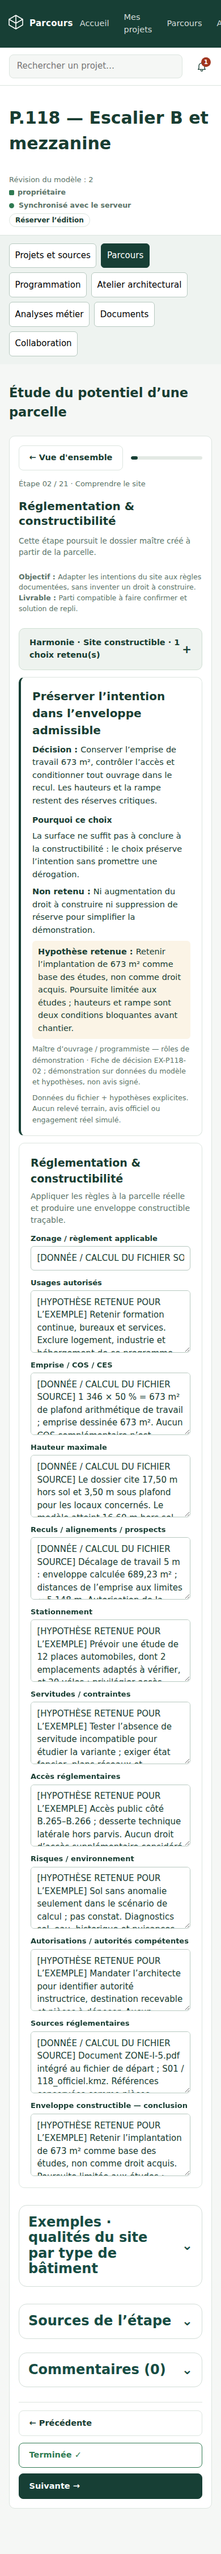
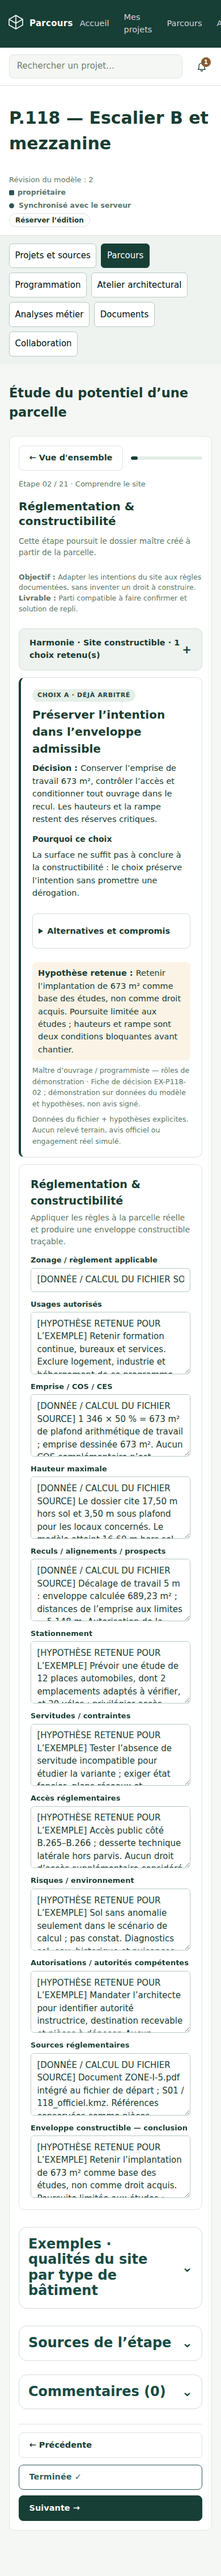
Exemple résolu : récit du choix avec les libellés du panneau ex81 (« CHOIX X · DÉJÀ ARBITRÉ », pli « Alternatives et compromis »)
Claude-Session: https://claude.ai/code/session_0157kHiYbK714BYhfbxMJK9G

diff --git a/apps/web/src/modules/parcours/ParcoursModule.tsx b/apps/web/src/modules/parcours/ParcoursModule.tsx
@@ -70,6 +70,7 @@ function StepStory({ step }: { step: ParcoursStep }) {
   if (!content.decision && !content.headline && !content.result) return null;
   return (
     <section className="ex81 ex81-story" aria-labelledby={`story-${step.number}`}>
+      {content.choice && <span className="ex81-tag">CHOIX {content.choice} · DÉJÀ ARBITRÉ</span>}
       {content.headline && <h2 id={`story-${step.number}`}>{content.headline}</h2>}
       <div className="step-detail-body">
         {content.decision && (
@@ -85,10 +86,10 @@ function StepStory({ step }: { step: ParcoursStep }) {
           </>
         )}
         {content.alternatives && (
-          <p>
-            <strong>Non retenu : </strong>
-            {content.alternatives}
-          </p>
+          <details className="ex81-fold">
+            <summary>Alternatives et compromis</summary>
+            <p>{content.alternatives}</p>
+          </details>
         )}
         {content.result?.donnee && (
           <p className="step-card-donnee">

diff --git a/apps/web/src/style.css b/apps/web/src/style.css
@@ -2247,6 +2247,17 @@ button.h7-chip.h7-goto:hover {
 /* ---------------------------------------------------------------------- */
 /* Exemple résolu — présentation protégée (prototype : ex81-*)             */
 /* ---------------------------------------------------------------------- */
+.ex81-tag {
+  display: inline-block;
+  font-size: 11px;
+  font-weight: 700;
+  letter-spacing: 0.06em;
+  padding: 3px 9px;
+  border-radius: 999px;
+  background: #e4efe7;
+  color: #1f4d3b;
+  margin-bottom: 8px;
+}
 .ex81-fold {
   margin: 16px 0;
   padding: 15px;

diff --git a/docs/migration/matrix.md b/docs/migration/matrix.md
@@ -34,7 +34,7 @@ commencé.
 | « Rapport de cette étape » (`Harmonie_Etape_NN_V7.html`) et « Exporter la synthèse des choix Harmonie » (`Harmonie_Choix_Parcours_V7.html`, outils du projet de la vue d'ensemble) : document HTML autonome et imprimable (feuille `h7-css` du prototype extraite telle quelle), cartes des partis et des choix retenus avec schéma de site, intentions reçues, choix à transmettre, péremption, cadre et références | Extraire (serveur) | `packages/domain-model/src/harmonie-report.ts` ; `apps/api/src/data/harmonie-report.css` (extraction) ; `GET …/steps/:n/harmonie/rapport`, `GET …/steps/harmonie/rapport` (pièce jointe, `nosniff`) ; liens de téléchargement dans le panneau et « Outils du projet » | ✅ (destinations en texte plutôt qu'en boutons masqués) | `dependencies.test.ts` « harmonieReportHtml » ; `app.test.ts` « …serves the step report and the project synthesis… » ; e2e (nom de fichier et contenu des deux rapports) |
 | « Choix & transmission » : intentions reçues (« Voir l’origine »), choix à transmettre (référence, texte, destinations cliquables, état), encart de transmission ; « Données mobilisées » : « Programme : N fiches · X m² de cibles de travail » (≥ 07 avec cas), « Modèle courant » (10/11) ; encart de l'étape 20 sans décision favorable ; toasts (`Choix enregistré…`, `Propositions actualisées…`, `Données du site enregistrées…`) | Conserver | `HarmoniePanel.tsx`, `ParcoursModule.tsx` | ✅ | e2e 6e ; `app.test.ts` (`programme` de l'étape 07 : 74 fiches · 2 932,26 m²) |
 | « Proposer un transfert surfacique à total constant » (h7-app `programmeTransferHTML` / `previewTransfer` / `applyTransfer`, pli du panneau Harmonie de l'étape **07**) : fiche donneuse, fiche bénéficiaire, surface, justification ; « Comparer avant / après » (Donneur / Bénéficiaire / Total programme, refus « Deux fiches distinctes et une surface positive disponible sont nécessaires. » / « Justifiez le transfert et ses conséquences. ») ; « Appliquer ce transfert au programme » sur la même empreinte des fiches (sinon « Le programme a changé. Recalculez la comparaison. ») → deux surfaces unitaires recalculées (`editSpace` ×2 : révision +2, revues à reprendre, décision à réexaminer), transfert journalisé (`programmeState.transfers`), toast « Transfert appliqué au programme à total constant. Géométrie conservée. » ; absent sans cas appliqué (encart) et dans la référence protégée | Extraire (règles pures) + Adapter (serveur autoritaire) | `building-library.ts` (`previewSurfaceTransfer`, `applySurfaceTransfer`) ; `lib/programme-case.ts` (`applyProgrammeTransfer`) ; `POST …/programme/case/transfer/preview`, `POST …/programme/case/transfer` ; `modules/programmation/ProgrammeTransferFold.tsx` monté par `HarmoniePanel` (`afterProposals`) à l'étape 07 | ✅ | `building-library.test.ts` (transfert) ; `app.test.ts` « …previews / applies a surface transfer at constant total » (total conservé, révision +2, comparaison périmée refusée, journal) ; e2e 6g (refus, aperçu 230,61 → 225,61 m², total 2 932,26 m² inchangé, application, révision 10) ; `captures/webapp/07-desktop-transfert.png` |
-| Exemple P.118 résolu : récit du choix (« Pourquoi ce choix »), réponses renseignées (12 rubriques nommant donnée / hypothèse), choix retenu avec responsable et preuve, 21/21 illustrées | Extraire | `p118-exemple-complet.json` (+ `business`) ; import `POST /examples/:id/import` | ✅ | `app.test.ts` « imports an example… » ; e2e ; `captures/webapp/02-desktop.png` |
+| Exemple P.118 résolu : récit du choix (étiquette « CHOIX X · DÉJÀ ARBITRÉ », titre, décision, « Pourquoi ce choix », pli « Alternatives et compromis », donnée / hypothèse, responsable · preuve, statut de la source — libellés du panneau ex81 du prototype), réponses renseignées (12 rubriques nommant donnée / hypothèse), 21/21 illustrées | Extraire | `p118-exemple-complet.json` (+ `business`) ; import `POST /examples/:id/import` ; `modules/parcours/ParcoursModule.tsx` (`StepStory`) | ✅ | `app.test.ts` « imports an example… » ; e2e ; `captures/webapp/02-desktop.png` |
 | Référence protégée de l'exemple résolu (`demoP118V81.mode = "reference"` : `projectProgramme` aux étapes 06 / 07 — « Répartition renseignée et liée au modèle », pli « 74 fiches d’espaces — capacités, dimensions et ambiances choisies » (`roomsHTML` : géométrie du modèle courant, gabarit et capacité cible de la fiche reliée par `sourceRoomId`, réponse retenue, ambiance choisie), « Exporter les fiches CSV » (`P118_Programme_Resolu_V8_19.csv`), « Essayer une autre répartition en copie ») et `copy()` (nouveau projet « P.118 — ma variante de l’exemple résolu », mode `editable`, dossier copié intégralement, empreintes reposées, référence intacte) | Extraire + Adapter (copie côté serveur par export / import d'archive dans une transaction) | `projects.example_mode` (`reference` à l'import d'un exemple, `editable` pour une copie, repris de `demoP118V81.mode` à l'import d'un export du prototype) ; `POST /projects/:id/copies` ; `exampleRoomsHtml()` (`design-review.ts`) servi dans `GET …/design-review` (`html.exampleRooms`) ; `ProgrammeRepartition.tsx` (`CaseSummary`) ; `api.copyProject` | ✅ | `app.test.ts` « “Essayer une autre répartition en copie” : copies the protected P.118 reference… » ; `archive.test.ts` (`exampleMode`) ; e2e 6g (pli des 74 fiches, CSV, copie, référence intacte) ; `captures/webapp/07-desktop.png` |
 | « Créer une copie pour essayer » | Adapter | l'import d'un exemple crée une copie appartenant à l'utilisateur, en mode référence (présentation protégée du programme) ; « Essayer une autre répartition en copie » en fait une copie de travail (`editable`) | ✅ | `app.test.ts` |
 | Bibliothèque des bâtiments (Parcours V6.1, `building-library-app` + `building-library-data`) : 10 types, 21 cas, 3 variantes chacun ; recherche et filtre par type ; fiche d'un cas (Programme & surfaces avec sommes par famille et ratios, Adjacences & flux avec schéma SVG, Exigences & dessin avec dimensions, critères, livrables et gabarit d'essai SVG, Harmony & parcours, Sources & hypothèses avec références et dossier d'origine) ; exports rapport HTML du cas (`report(c, s)` : les cinq rubriques, plis ouverts, cadre et nom du prototype), programme CSV, fiche JSON, bibliothèque JSON, schémas SVG ; cas P.118 : « Ouvrir le modèle P.118 » (`openP118()` : dossier source à l'étape 10 — projet courant issu de l'exemple, sinon première référence du compte, sinon exemple importé d'abord) dans l'en-tête et à la place du gabarit d'essai | **Extraire** (données telles quelles) + Adapter (vues React, calculs purs) | `apps/api/src/data/building-library.json` (1,3 Mo, verbatim) ; `packages/domain-model/src/building-library.ts` (sommes, zonage, textes, CSV, SVG) ; `GET /library/buildings[/:id]` ; `modules/bibliotheque/BuildingLibraryPage.tsx` (`/bibliotheque/batiments[/:id]`, feuille de style du prototype) | ✅ | `building-library.test.ts` (6) ; `app.test.ts` « serves the library and a case… » ; e2e (10 types / 21 cas, recherche « hôtel », type Santé → aucun cas, fiche Hôtel urbain : 3 variantes, 5 rubriques, SVG, rapport HTML téléchargé : rubriques, 21 étapes, plis ouverts, feuille de style ; 6q : « Ouvrir le modèle P.118 » → référence du compte à l'étape 10, et import de l'exemple pour un compte qui ne l'a pas) ; `captures/webapp/bibliotheque-batiments-desktop.png`, `…-hotel-desktop.png`, `…-hotel-mobile.png` |
